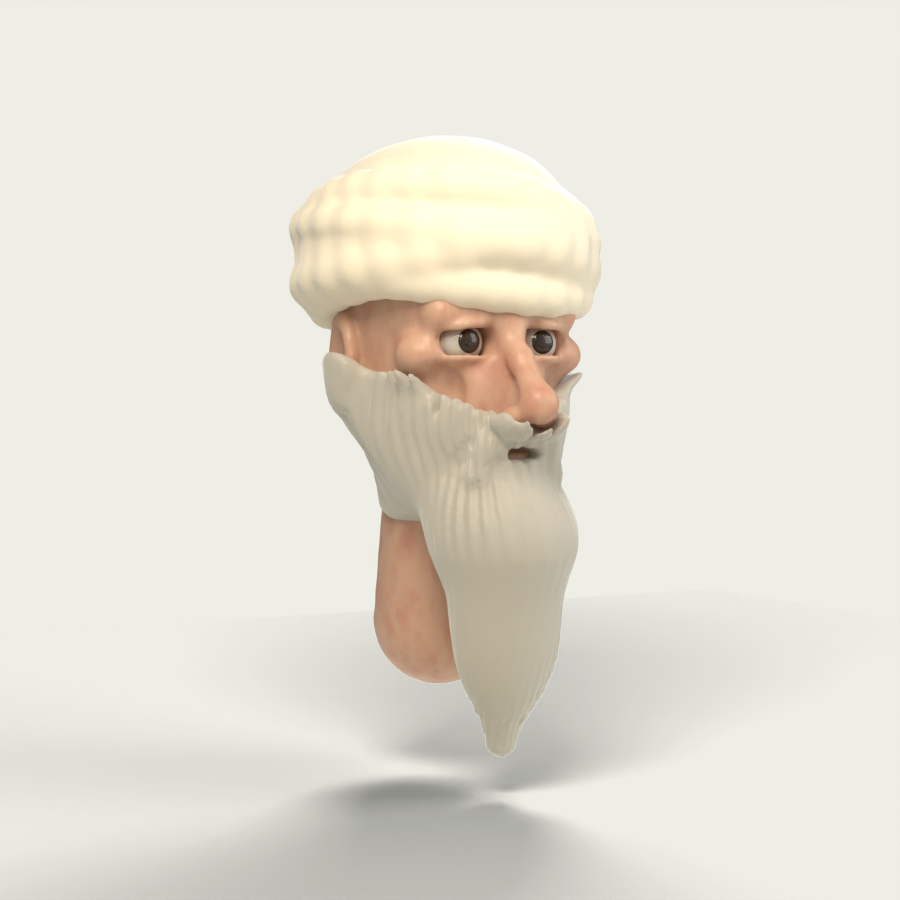
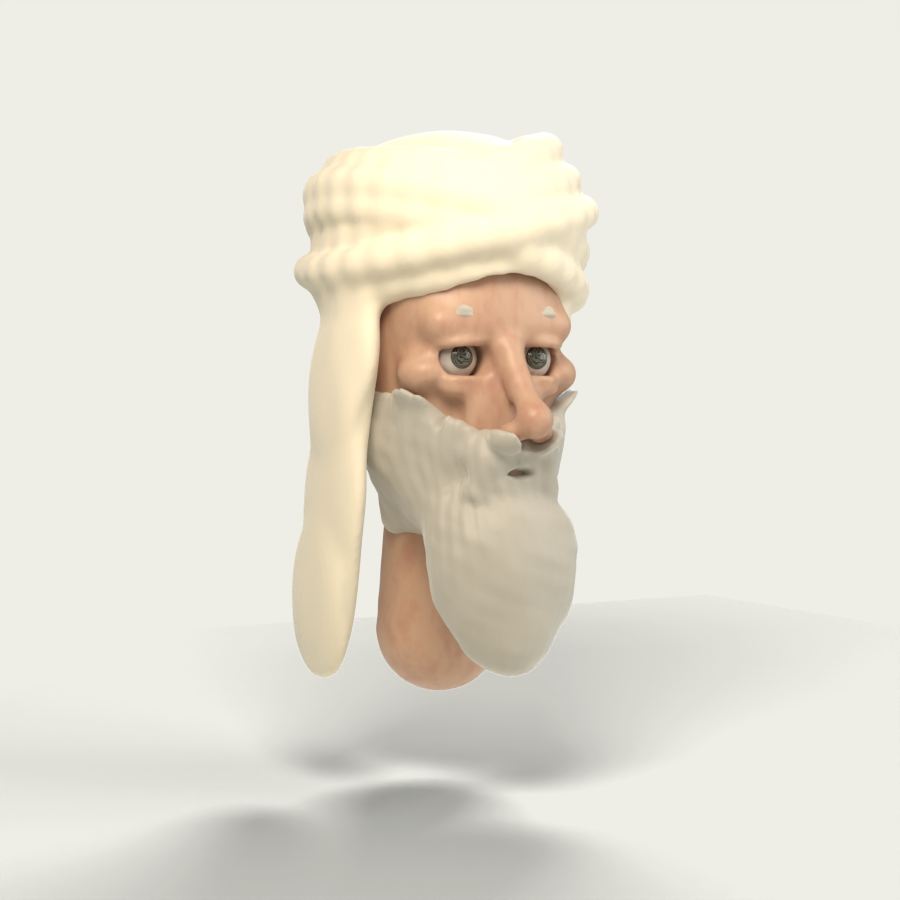
Ibn Ezra head: follow the owner's reference portrait (open eyes, straight nose, smile, curly beard, diagonal turban with hanging cloth)
Claude-Session: https://claude.ai/code/session_01CHHXmFatXNjEpDXMBfvU4V

diff --git a/figures/src/ibnezra_head.py b/figures/src/ibnezra_head.py
@@ -11,7 +11,7 @@ sys.path.insert(0, os.path.dirname(__file__))
 from lib import *  # noqa: E402,F401,F403
 from sdf import Field, hair_grooves  # noqa: E402
 
-CARICATURE = 1.12
+CARICATURE = 1.08   # subtle (owner: 'very subtly, slight caricature')
 HEAD_LO, HEAD_HI = (-0.56, -0.74, -1.35), (0.56, 0.56, 0.62)
 RES = 260
 
@@ -27,19 +27,20 @@ def build_head(res=RES):
         F.add(F.ellipsoid((s * 0.22, -0.26, 0.0), (0.095, 0.085, 0.07)), 0.05)                   # high cheekbones
         F.cut(F.ellipsoid((s * 0.2, -0.33, -0.12), (0.07, 0.04, 0.08)), 0.05)                    # hollow cheeks
     F.add(F.ellipsoid((0, -0.3, -0.44), (0.1, 0.08, 0.075)), 0.06)                                # chin
-    F.add(F.capsule((-0.21, -0.335, 0.12), (0.21, -0.335, 0.12), 0.045), 0.06)                    # brow ridge
+    F.add(F.capsule((-0.21, -0.33, 0.15), (0.21, -0.33, 0.15), 0.045), 0.06)                      # brow ridge
     F.add(F.ellipsoid((0, -0.36, 0.08), (0.055, 0.05, 0.06)), 0.04)
     for s in (1, -1):
-        F.cut(F.ellipsoid((s * 0.13, -0.37, 0.04), (0.085, 0.07, 0.058)), 0.035)                  # deep-set eyes
-        F.add(F.ellipsoid((s * 0.13, -0.345, 0.088), (0.08, 0.06, 0.028), rot=(0, s * 8, 0)), 0.015)   # upper lid
-        F.add(F.ellipsoid((s * 0.13, -0.34, -0.012), (0.07, 0.055, 0.022)), 0.015)                  # lower lid
-        F.cut(F.sphere((s * 0.13, -0.322, 0.038), 0.074), 0.004)
-        # a smile in the eyes: lifted lower lids, crow's feet
-        F.wrinkle((s * 0.21, -0.33, 0.05), (s * 0.27, -0.29, 0.01), 0.006, 0.006)
-        F.wrinkle((s * 0.21, -0.335, 0.025), (s * 0.27, -0.3, 0.035), 0.005, 0.006)
+        F.cut(F.ellipsoid((s * 0.135, -0.37, 0.045), (0.085, 0.06, 0.06)), 0.03)                   # shallow sockets
+        F.add(F.ellipsoid((s * 0.135, -0.335, 0.098), (0.088, 0.06, 0.028), rot=(0, s * 6, 0)), 0.015)   # upper lid fold
+        F.add(F.ellipsoid((s * 0.135, -0.335, -0.018), (0.072, 0.05, 0.018)), 0.015)              # lower lid
+        F.cut(F.sphere((s * 0.135, -0.31, 0.045), 0.074), 0.004)                                  # open eyes
+        F.add(F.ellipsoid((s * 0.15, -0.33, -0.05), (0.06, 0.045, 0.022)), 0.03)                  # under-eye bags
+        F.wrinkle((s * 0.22, -0.33, 0.06), (s * 0.28, -0.29, 0.02), 0.006, 0.006)                # crow's feet
+        F.wrinkle((s * 0.22, -0.335, 0.03), (s * 0.28, -0.3, 0.04), 0.005, 0.006)
+        F.wrinkle((s * 0.08, -0.4, 0.17), (s * 0.03, -0.41, 0.2), 0.004, 0.006)                  # a frown line between the brows
     # Nose: long, gently aquiline (a bump on the bridge)
     F.add(F.capsule((0, -0.38, 0.06), (0, -0.37 - 0.16 * N, -0.12 * N), 0.03, 0.042), 0.04)
-    F.add(F.ellipsoid((0, -0.45, -0.02), (0.035, 0.03, 0.04)), 0.03)                              # the aquiline bump
+    F.add(F.capsule((0, -0.4, 0.07), (0, -0.46, -0.06), 0.034, 0.036), 0.03)                       # a strong straight bridge
     F.add(F.sphere((0, -0.38 - 0.16 * N, -0.14 * N), 0.05 * N), 0.035)
     for s in (1, -1):
         F.add(F.ellipsoid((s * 0.05, -0.42 - 0.07 * N, -0.17 * N), (0.04, 0.048, 0.034)), 0.03)
@@ -47,7 +48,10 @@ def build_head(res=RES):
     # Mouth: a wry half-smile (one corner higher)
     F.add(F.ellipsoid((0, -0.395, -0.27), (0.095, 0.05, 0.03)), 0.03)
     F.add(F.ellipsoid((0, -0.385, -0.318), (0.083, 0.048, 0.028)), 0.03)
-    F.cut(F.ellipsoid((0.0, -0.445, -0.29), (0.092, 0.05, 0.0065), rot=(0, -6, 0)), 0.008)
+    F.cut(F.capsule((-0.085, -0.425, -0.265), (0, -0.45, -0.29), 0.0065), 0.008)     # a soft smile
+    F.cut(F.capsule((0, -0.45, -0.29), (0.085, -0.425, -0.265), 0.0065), 0.008)
+    for s in (1, -1):
+        F.add(F.ellipsoid((s * 0.1, -0.395, -0.25), (0.035, 0.03, 0.03)), 0.03)                     # smile cheeks
     for i, z in enumerate((0.26, 0.31)):
         F.wrinkle((-0.16, -0.37 + i * 0.012, z), (0.16, -0.37 + i * 0.012, z), 0.004, 0.008)
     for s in (1, -1):
@@ -58,23 +62,26 @@ def build_head(res=RES):
     return F
 
 
-def build_turban(res=170):
-    """Wrapped cloth: overlapping tilted bands around a soft crown, with a tail tucked at the side."""
-    F = Field((-0.62, -0.62, 0.0), (0.62, 0.62, 0.78), res)
-    F.add(F.ellipsoid((0, 0.04, 0.42), (0.39, 0.45, 0.28)), 0.05)                                  # crown
-    for i in range(7):
-        a = i * 26
-        tilt = 14 if i % 2 else -12
-        z = 0.2 + i * 0.045
-        r = 0.44 - abs(i - 2.5) * 0.025
-        # a band = a flattened torus approximated by a capsule ring (many short capsules)
-        segs = 26
+def build_turban(res=200):
+    """A large wrapped turban: diagonal folds crossing at the front, and a long cloth hanging down beside the face."""
+    F = Field((-0.66, -0.66, -1.0), (0.66, 0.66, 0.85), res)
+    F.add(F.ellipsoid((0, 0.03, 0.5), (0.42, 0.47, 0.3)), 0.05)                                       # crown
+    for i in range(8):
+        tilt = (18 if i % 2 else -18) + (i - 4) * 2
+        z = 0.29 + i * 0.05
+        r = 0.44 - abs(i - 3) * 0.03
+        segs = 30
+        def pt(t):
+            x, y = r * math.cos(t), (r + 0.03) * math.sin(t) + 0.03
+            return (x, y, z + math.sin(math.radians(tilt)) * x * 0.9)
         for k in range(segs):
             t0, t1 = 2 * math.pi * k / segs, 2 * math.pi * (k + 1) / segs
-            def pt(t):
-                x, y = r * math.cos(t + math.radians(a)), (r + 0.04) * math.sin(t + math.radians(a)) + 0.04
-                return (x, y, z + math.sin(t) * math.radians(tilt) * 0.3)
-            F.add(F.capsule(pt(t0), pt(t1), 0.055), 0.04)
+            F.add(F.capsule(pt(t0), pt(t1), 0.05), 0.035)
+    # the hanging cloth: from the turban's side, past the ear, down over the shoulder (figure's right = -X)
+    F.add(F.ellipsoid((-0.39, -0.02, 0.05), (0.07, 0.2, 0.24), rot=(0, 8, 0)), 0.08)
+    F.add(F.ellipsoid((-0.42, 0.0, -0.4), (0.06, 0.2, 0.32), rot=(0, 4, 0)), 0.12)
+    F.add(F.ellipsoid((-0.45, 0.04, -0.78), (0.055, 0.19, 0.2)), 0.12)
+    F.cut(F.ellipsoid((0, -0.15, -0.15), (0.33, 0.4, 0.6)), 0.03)                                     # keep the face free
     F.noise(0.003, 40, seed=3)
     return F
 
@@ -90,33 +97,36 @@ def build_beard(head):
     F.keep((F.Y - 0.08).astype(np.float32), 0.05)                  # not around the back of the neck
     F.keep((-(F.Z + 0.52)).astype(np.float32), 0.06)               # not down the neck: the long beard hangs free
     F.cut(F.ellipsoid((0, -0.53, -0.12), (0.1, 0.17, 0.12)), 0.02)                # the nose
-    F.cut(F.ellipsoid((0, -0.445, -0.3), (0.06, 0.1, 0.024)), 0.012)              # the lips show
-    F.add(F.ellipsoid((0, -0.34, -0.55), (0.22, 0.16, 0.18)), 0.12)                 # under the chin
-    F.add(F.capsule((0, -0.37, -0.6), (0, -0.33, -1.18), 0.17, 0.045), 0.15)        # the long beard
-    F.add(F.ellipsoid((0, -0.36, -0.86), (0.16, 0.11, 0.2)), 0.12)
+    F.cut(F.ellipsoid((0, -0.45, -0.31), (0.05, 0.08, 0.016)), 0.012)              # the lower lip shows
+    F.add(F.ellipsoid((0, -0.35, -0.56), (0.25, 0.17, 0.2)), 0.12)                  # under the chin
+    F.add(F.ellipsoid((0, -0.37, -0.72), (0.21, 0.14, 0.17)), 0.12)                  # a full, rounded beard to the chest
+    F.add(F.sphere((0, -0.39, -0.84), 0.1), 0.1)
     for s in (1, -1):                                                              # moustache, drooping
         F.add(F.capsule((s * 0.02, -0.455, -0.225), (s * 0.1, -0.44, -0.275), 0.028, 0.026), 0.03)
         F.add(F.capsule((s * 0.1, -0.44, -0.275), (s * 0.13, -0.41, -0.36), 0.026, 0.03), 0.04)
-    hair_grooves(F, amp=0.006, freq=120, flow='down', wave=0.05)
-    F.noise(0.0018, 60, seed=5)
+    hair_grooves(F, amp=0.003, freq=110, flow='down', wave=0.12)
+    F.noise(0.011, 34, seed=5)     # curls: soft lumps all over the beard
+    F.noise(0.003, 75, seed=9)
     return F
 
 
 def build_brows(res=120):
-    F = Field((-0.3, -0.48, 0.05), (0.3, -0.25, 0.22), res)
+    F = Field((-0.3, -0.48, 0.08), (0.3, -0.25, 0.25), res)
     for s in (1, -1):
-        F.add(F.capsule((s * 0.05, -0.375, 0.135), (s * 0.24, -0.33, 0.125), 0.024, 0.016), 0.02)  # bushy brows
+        # arched brows: up from the nose, peaking above the outer iris, down at the temple
+        F.add(F.capsule((s * 0.05, -0.375, 0.16), (s * 0.15, -0.37, 0.19), 0.02, 0.018), 0.02)
+        F.add(F.capsule((s * 0.15, -0.37, 0.19), (s * 0.245, -0.33, 0.155), 0.018, 0.012), 0.02)
     hair_grooves(F, amp=0.0025, freq=260, flow='side', wave=0.01)
     return F
 
 
 def head_parts():
     F = build_head()
-    skin = skin_mat('skin_ie', base='#c9a18a', flush='#bf8a78', sss=0.25)     # a weathered Mediterranean complexion
+    skin = skin_mat('skin_ie', base='#c29e86', flush='#b88a76', sss=0.15)     # a weathered Mediterranean complexion
     head = F.mesh('head_sculpt', skin)
     parts = [head]
     for s, name in ((1, 'eyeL'), (-1, 'eyeR')):
-        parts += eye(name, (s * 0.13, -0.3, 0.035), 0.067, iris='#4a3420', look=(s * -0.04, -1, 0.03))
+        parts += eye(name, (s * 0.135, -0.282, 0.045), 0.068, iris='#7d8070', look=(-0.1, -1, 0.08))
     T = build_turban()
     cloth = cloth_mat('turban', '#ece2cc', rough=0.85, sheen=0.5, weave=0.15)
     turban = T.mesh('turban', cloth, smooth_iter=4)
@@ -157,5 +167,6 @@ if __name__ == '__main__':
     for o in bpy.data.objects:
         if o.name == 'floor':
             o.location.z = -1.4
-    render(f'{out}/figures/renders/ibnezra_head.png', view='3q', target_z=-0.3, dist=5.6, res=900, samples=96)
+    render(f'{out}/figures/renders/ibnezra_head.png', view='3q', target_z=-0.25, dist=5.8, res=900, samples=96)
+    render(f'{out}/figures/renders/ibnezra_head_front.png', view='front', target_z=-0.25, dist=5.8, res=900, samples=96)
     print('done')
